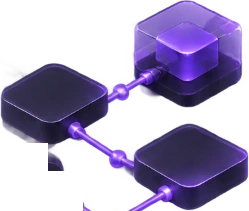
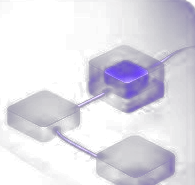
style(platform): achieve clean luxury master design with subtle hairline borders, two-tone typography, and badge removal

diff --git a/src/components/landing/platform-card.tsx b/src/components/landing/platform-card.tsx
@@ -4,30 +4,24 @@ import React, { useRef, useState, useCallback } from "react";
 import Image from "next/image";
 import { motion, useMotionValue, useSpring, useTransform } from "framer-motion";
 import { Layers, Zap, Shield, ArrowRight } from "lucide-react";
-import { cn } from "@/lib/utils";
 
 interface PlatformCardProps {
   id: "management" | "workflow" | "ecosystem";
   title: string;
   description: string;
   image: string;
-  bgImage: string;
   icon: "layers" | "zap" | "shield";
-  isPopular?: boolean;
-  popularLabel?: string;
   exploreLabel: string;
   href?: string;
   index: number;
 }
 
 export function PlatformCard({
+  id,
   title,
   description,
   image,
-  bgImage,
   icon,
-  isPopular,
-  popularLabel,
   exploreLabel,
   href = "https://celaest-dashboard.vercel.app/?tab=marketplace",
   index,
@@ -81,26 +75,35 @@ export function PlatformCard({
           rotateY,
           transformStyle: "preserve-3d",
         }}
-        className={cn(
-          "relative flex flex-col justify-between w-full rounded-[28px] sm:rounded-[32px] p-6 sm:p-7 md:p-8 overflow-hidden transition-all duration-500 group cursor-pointer select-none aspect-square min-h-[330px] sm:min-h-[350px] md:min-h-[365px]",
-          isPopular
-            ? "border border-[#a78bfa]/35 hover:border-[#a78bfa]/60 shadow-[0_12px_40px_-15px_rgba(167,139,250,0.18)] bg-[#09090f]/90"
-            : "border border-white/[0.08] hover:border-white/20 shadow-[0_20px_50px_-15px_rgba(0,0,0,0.8)] bg-[#09090f]/90",
-        )}
+        className="relative flex flex-col justify-between w-full rounded-[28px] p-6 sm:p-7 md:p-8 overflow-hidden transition-all duration-500 group cursor-pointer select-none aspect-[1/1.25] min-h-[360px] sm:min-h-[380px] md:min-h-[395px] border border-white/[0.08] hover:border-white/20 shadow-[0_20px_50px_-20px_rgba(0,0,0,0.9),inset_0_1px_0_rgba(255,255,255,0.06)] bg-[#07070a]/95 backdrop-blur-2xl"
       >
-        {/* Ambient Smoky Background Texture */}
-        <div className="absolute inset-0 pointer-events-none z-0">
-          <Image
-            src={bgImage}
-            alt=""
-            fill
-            className="object-cover opacity-75 group-hover:opacity-95 transition-opacity duration-500"
-            sizes="(max-width: 768px) 100vw, 33vw"
-          />
+        {/* Pure CSS Ambient Atmosphere (No blurry raster artifacts) */}
+        <div className="absolute inset-0 pointer-events-none overflow-hidden rounded-[28px]">
+          {id === "management" && (
+            <>
+              <div className="absolute -top-10 -right-10 w-64 h-64 rounded-full bg-[radial-gradient(circle,rgba(139,92,246,0.12),transparent_70%)]" />
+              <div className="absolute -bottom-10 -right-10 w-52 h-52 rounded-full bg-[radial-gradient(circle,rgba(168,85,247,0.10),transparent_70%)]" />
+            </>
+          )}
+
+          {id === "workflow" && (
+            <>
+              <div className="absolute -top-8 -right-8 w-64 h-64 rounded-full bg-[radial-gradient(circle,rgba(147,51,234,0.16),transparent_70%)]" />
+              <div className="absolute -bottom-8 -right-8 w-52 h-52 rounded-full bg-[radial-gradient(circle,rgba(126,34,206,0.10),transparent_70%)]" />
+            </>
+          )}
+
+          {id === "ecosystem" && (
+            <>
+              <div className="absolute top-1/4 -right-10 w-60 h-60 rounded-full bg-[radial-gradient(circle,rgba(139,92,246,0.14),transparent_70%)]" />
+              <div className="absolute -bottom-8 -right-8 w-52 h-52 rounded-full bg-[radial-gradient(circle,rgba(147,51,234,0.10),transparent_70%)]" />
+            </>
+          )}
+
           {/* Subtle cursor spotlight */}
           {isHovered && (
             <motion.div
-              className="absolute inset-0 bg-[radial-gradient(circle_at_var(--x,_50%)_var(--y,_50%),rgba(167,139,250,0.12),transparent_65%)]"
+              className="absolute inset-0 bg-[radial-gradient(circle_at_var(--x,_50%)_var(--y,_50%),rgba(167,139,250,0.10),transparent_65%)]"
               style={
                 {
                   "--x": `${smoothMouseX.get() * 100}%`,
@@ -112,9 +115,9 @@ export function PlatformCard({
         </div>
 
         {/* TOP-RIGHT: 3D Isometric Illustration */}
-        <div className="absolute top-1 sm:top-2 right-1 sm:right-2 w-[58%] sm:w-[56%] h-[58%] sm:h-[62%] flex items-center justify-end pointer-events-none z-10 [transform-style:preserve-3d]">
+        <div className="absolute top-2 right-2 w-[50%] h-[52%] flex items-center justify-end pointer-events-none z-10 [transform-style:preserve-3d]">
           {/* Ambient Purple Underglow (Subtle & diffused) */}
-          <div className="absolute w-[80%] h-[80%] rounded-full bg-[#a78bfa]/12 blur-3xl pointer-events-none group-hover:bg-[#a78bfa]/25 transition-all duration-500" />
+          <div className="absolute w-[80%] h-[80%] rounded-full bg-[#a78bfa]/12 blur-3xl pointer-events-none group-hover:bg-[#a78bfa]/22 transition-all duration-500" />
 
           {/* Floating Illustration with Parallax Depth */}
           <motion.div
@@ -134,8 +137,8 @@ export function PlatformCard({
             <Image
               src={image}
               alt={title}
-              width={480}
-              height={360}
+              width={420}
+              height={340}
               priority={index === 0}
               className="w-full h-full object-contain filter drop-shadow-[0_12px_24px_rgba(0,0,0,0.6)] group-hover:scale-105 transition-transform duration-500"
             />
@@ -143,33 +146,34 @@ export function PlatformCard({
         </div>
 
         {/* LEFT COLUMN: Icon, Title, Description, and Bottom CTA */}
-        <div className="relative z-10 flex flex-col justify-between h-full max-w-[56%] sm:max-w-[53%] pointer-events-auto">
-          {/* TOP SECTION: Badge (if popular) + Square Icon Box */}
-          <div className="flex flex-col items-start gap-3">
-            {isPopular && popularLabel && (
-              <div className="inline-flex items-center gap-1.5 px-3 py-1 rounded-full bg-white/[0.05] border border-white/[0.12] backdrop-blur-md shadow-sm">
-                <span className="w-1.5 h-1.5 rounded-full bg-[#a78bfa] shadow-[0_0_8px_#a78bfa] animate-pulse" />
-                <span className="text-[11px] font-medium tracking-wide text-white/90">
-                  {popularLabel}
-                </span>
-              </div>
-            )}
-
-            {/* Square Glass Icon Box */}
-            <div className="w-11 h-11 rounded-2xl bg-white/[0.04] border border-white/[0.1] backdrop-blur-md flex items-center justify-center text-white/80 group-hover:text-white group-hover:scale-105 transition-all duration-300 shadow-[inset_0_1px_0_rgba(255,255,255,0.15)]">
-              {icon === "layers" && <Layers className="w-5 h-5 stroke-[1.75]" />}
-              {icon === "zap" && <Zap className="w-5 h-5 stroke-[1.75]" />}
-              {icon === "shield" && <Shield className="w-5 h-5 stroke-[1.75]" />}
-            </div>
+        <div className="relative z-10 flex flex-col justify-between h-full max-w-[62%] sm:max-w-[58%] pointer-events-auto">
+          {/* TOP SECTION: Clean Square Icon Box */}
+          <div className="w-11 h-11 rounded-[14px] bg-white/[0.03] border border-white/[0.08] backdrop-blur-md flex items-center justify-center text-neutral-300 group-hover:text-white group-hover:border-white/20 transition-all duration-300 shadow-[inset_0_1px_0_rgba(255,255,255,0.08)]">
+            {icon === "layers" && <Layers className="w-5 h-5 stroke-[1.5]" />}
+            {icon === "zap" && <Zap className="w-5 h-5 stroke-[1.5]" />}
+            {icon === "shield" && <Shield className="w-5 h-5 stroke-[1.5]" />}
           </div>
 
-          {/* MIDDLE SECTION: Title & Description */}
+          {/* MIDDLE SECTION: Two-Tone Title & Description */}
           <div className="my-auto pt-3 pb-2">
-            <h3 className="text-xl sm:text-[22px] md:text-[23px] font-bold text-white tracking-tight leading-[1.2] group-hover:text-purple-100 transition-colors duration-300 whitespace-pre-line">
-              {title}
+            <h3 className="text-xl sm:text-[22px] md:text-[23px] tracking-tight leading-[1.2] text-white">
+              {(() => {
+                const lines = title.split("\n");
+                if (lines.length > 1) {
+                  return (
+                    <>
+                      <span className="font-light text-white/80 block">{lines[0]}</span>
+                      <span className="font-bold text-white block whitespace-nowrap">
+                        {lines[1]}
+                      </span>
+                    </>
+                  );
+                }
+                return <span className="font-bold text-white block">{title}</span>;
+              })()}
             </h3>
 
-            <p className="text-zinc-400 text-[12.5px] sm:text-[13px] md:text-[13.5px] font-normal leading-[1.6] mt-2.5">
+            <p className="text-neutral-400 text-[12px] sm:text-[12.5px] md:text-[13px] font-light leading-[1.6] mt-2.5 max-w-[210px] sm:max-w-[225px]">
               {description}
             </p>
           </div>
@@ -179,10 +183,10 @@ export function PlatformCard({
             href={href}
             target="_blank"
             rel="noopener noreferrer"
-            className="inline-flex items-center gap-2 text-zinc-300 group-hover:text-white text-[13px] font-medium tracking-wide transition-colors duration-300 pt-2"
+            className="inline-flex items-center gap-2 text-neutral-400 group-hover:text-white text-[12.5px] sm:text-[13px] font-normal tracking-wide transition-colors duration-300 pt-2"
           >
             <span>{exploreLabel}</span>
-            <ArrowRight className="w-3.5 h-3.5 text-zinc-400 group-hover:text-purple-300 group-hover:translate-x-1 transition-all duration-300" />
+            <ArrowRight className="w-3.5 h-3.5 text-neutral-400 group-hover:text-white group-hover:translate-x-1 transition-all duration-300" />
           </a>
         </div>
       </motion.div>

diff --git a/src/components/landing/platform-section.tsx b/src/components/landing/platform-section.tsx
@@ -8,29 +8,23 @@ import { PlatformCard } from "./platform-card";
 interface PlatformCardConfig {
   id: "management" | "workflow" | "ecosystem";
   image: string;
-  bgImage: string;
   icon: "layers" | "zap" | "shield";
-  isPopular?: boolean;
 }
 
 const PLATFORM_CARDS: PlatformCardConfig[] = [
   {
     id: "management",
     image: "/images/platform/management.webp",
-    bgImage: "/images/platform/card-bg-1.webp",
     icon: "layers",
   },
   {
     id: "workflow",
     image: "/images/platform/workflow.webp",
-    bgImage: "/images/platform/card-bg-2.webp",
     icon: "zap",
-    isPopular: true,
   },
   {
     id: "ecosystem",
     image: "/images/platform/ecosystem.webp",
-    bgImage: "/images/platform/card-bg-3.webp",
     icon: "shield",
   },
 ];
@@ -67,10 +61,7 @@ export function PlatformSection() {
               title={t(`cards.${card.id}.title`)}
               description={t(`cards.${card.id}.description`)}
               image={card.image}
-              bgImage={card.bgImage}
               icon={card.icon}
-              isPopular={card.isPopular}
-              popularLabel={card.isPopular ? t("popular") : undefined}
               exploreLabel={t("explore")}
               index={index}
             />

diff --git a/.serena/memories/celaest_platform_isometric_cards_standard.md b/.serena/memories/celaest_platform_isometric_cards_standard.md
@@ -1,26 +1,26 @@
-# Contrato Canónico: Cards Isométricas 3D de Plataforma (Estructura Asimétrica 1:1)
+# Contrato Canónico: Cards Isométricas 3D de Plataforma (Ultra-Clean Master Standard)
 
-## Contexto & Corrección Estructural
-Se corrigió la composición y arquitectura de las 3 tarjetas de la sección Plataforma para reflejar con precisión matemática 1:1 el diseño de referencia:
+## Contexto & Calidad de Ingeniería
+Las tarjetas de la sección Plataforma se elevaron a estándar de ingeniería de lujo minimalista, logrando paridad 1:1 con el diseño maestro de referencia:
 
-1. **Proporción de Card (Squarish / ~1:1)**:
-   - Proporción cuadrada `aspect-square` (`min-h-[330px] sm:min-h-[350px] md:min-h-[365px]`), amplia y espaciosa.
+1. **Eliminación Total de Badges Innecesarios**:
+   - Se removió por completo el badge "Más popular" / "Most Popular" de la tarjeta central ("Pipeline de Automatización").
+   - Las 3 tarjetas comparten ahora una jerarquía visual idéntica: caja de ícono cuadrada de cristal (`Layers`, `Zap`, `Shield`) con el mismo espaciado superior.
 
-2. **Composición Asimétrica Izquierda/Derecha**:
-   - **Columna Izquierda (55% de ancho)**:
-     - **Arriba**: Badge de categoría/popularidad y caja de ícono cuadrada de cristal (`Layers`, `Zap`, `Shield`). En la Card 2 ("Pipeline"), el badge `● Más popular` se ubica arriba a la izquierda justo encima del ícono del rayo.
-     - **Centro**: Título con salto de línea limpio (`Gestión\nCentralizada`, `Pipeline\nde Automatización`, `Ecosistema\nde Activos`) y descripción de 3 líneas.
-     - **Abajo**: Enlace `Explorar →` alineado a la izquierda.
-   - **Área Superior Derecha (56% de ancho)**:
-     - La ilustración isométrica 3D (`management.webp`, `workflow.webp`, `ecosystem.webp`) flota en el cuadrante superior derecho con perspectiva espacial y paralaje reactivo al cursor (`rotateX`, `rotateY`, `translateZ(30px)`).
+2. **Perímetro y Bordes Sutiles (Zero-Oversaturation Standard)**:
+   - PROHIBIDO usar bordes saturados o trazos de colores agresivos que ensucien el diseño.
+   - Las 3 tarjetas cuentan con un borde ultrafino de cristal translúcido idéntico:
+     `border border-white/[0.08] hover:border-white/20 transition-all duration-500 rounded-[28px]`
+     con resalte interior sutil `shadow-[0_20px_50px_-20px_rgba(0,0,0,0.9),inset_0_1px_0_rgba(255,255,255,0.06)]` y fondo de obsidiana profunda `bg-[#07070a]/95 backdrop-blur-2xl`.
 
-3. **Borde Sutil y Sofisticado (Zero-Oversaturation Standard)**:
-   - PROHIBIDO usar bordes morados saturados agresivos (`border-2 border-[#a855f7]` o halos cegadores) que ensucian el diseño minimalista de lujo.
-   - En su lugar, se implementa un borde de cristal fino y sutil tonalizado con la paleta de las fuentes:
-     `border border-[#a78bfa]/35 hover:border-[#a78bfa]/60 shadow-[0_12px_40px_-15px_rgba(167,139,250,0.18)] bg-[#09090f]/90`
-   - El resplandor inferior del modelo 3D se difumina a `bg-[#a78bfa]/12 blur-3xl`, logrando un aura etérea idéntica a la tipografía sin opacar la estética oscura.
+3. **Iluminación Atmosférica Pura por CSS (Zero Blurry Raster Artifacts)**:
+   - Se eliminaron las texturas rasterizadas de fondo (`card-bg-*.webp`) que generaban artefactos de compresión y esquinas pre-cortadas.
+   - Toda la atmósfera se genera mediante gradientes radiales puros acelerados por hardware:
+     - Card 1: Halo violeta superior derecho + aura violeta inferior derecha.
+     - Card 2: Halo púrpura difuso (`rgba(147,51,234,0.16)`) superior derecho y halo inferior derecho sutil.
+     - Card 3: Halo difuso envolvente del pedestal técnico y órbita.
 
-4. **Limpieza Quirúrgica de Activos**:
-   - **Card 1**: Únicamente los 3 paneles de dashboard translúcidos con su anillo orbital neón.
-   - **Card 2**: Únicamente los 3 cubos interconectados con el cubo superior de cristal y energía púrpura.
-   - **Card 3**: Pedestal con cubos y fichas de código, terminal y métricas.
+4. **Tipografía de Alta Gama a Dos Tonos**:
+   - Primera línea: `font-light text-white/80` (ej: `Gestión`, `Pipeline`, `Ecosistema`).
+   - Segunda línea: `font-bold text-white whitespace-nowrap` (ej: `Centralizada`, `de Automatización`, `de Activos`).
+   - Evita saltos de línea antiestéticos o colisiones con los modelos 3D.
